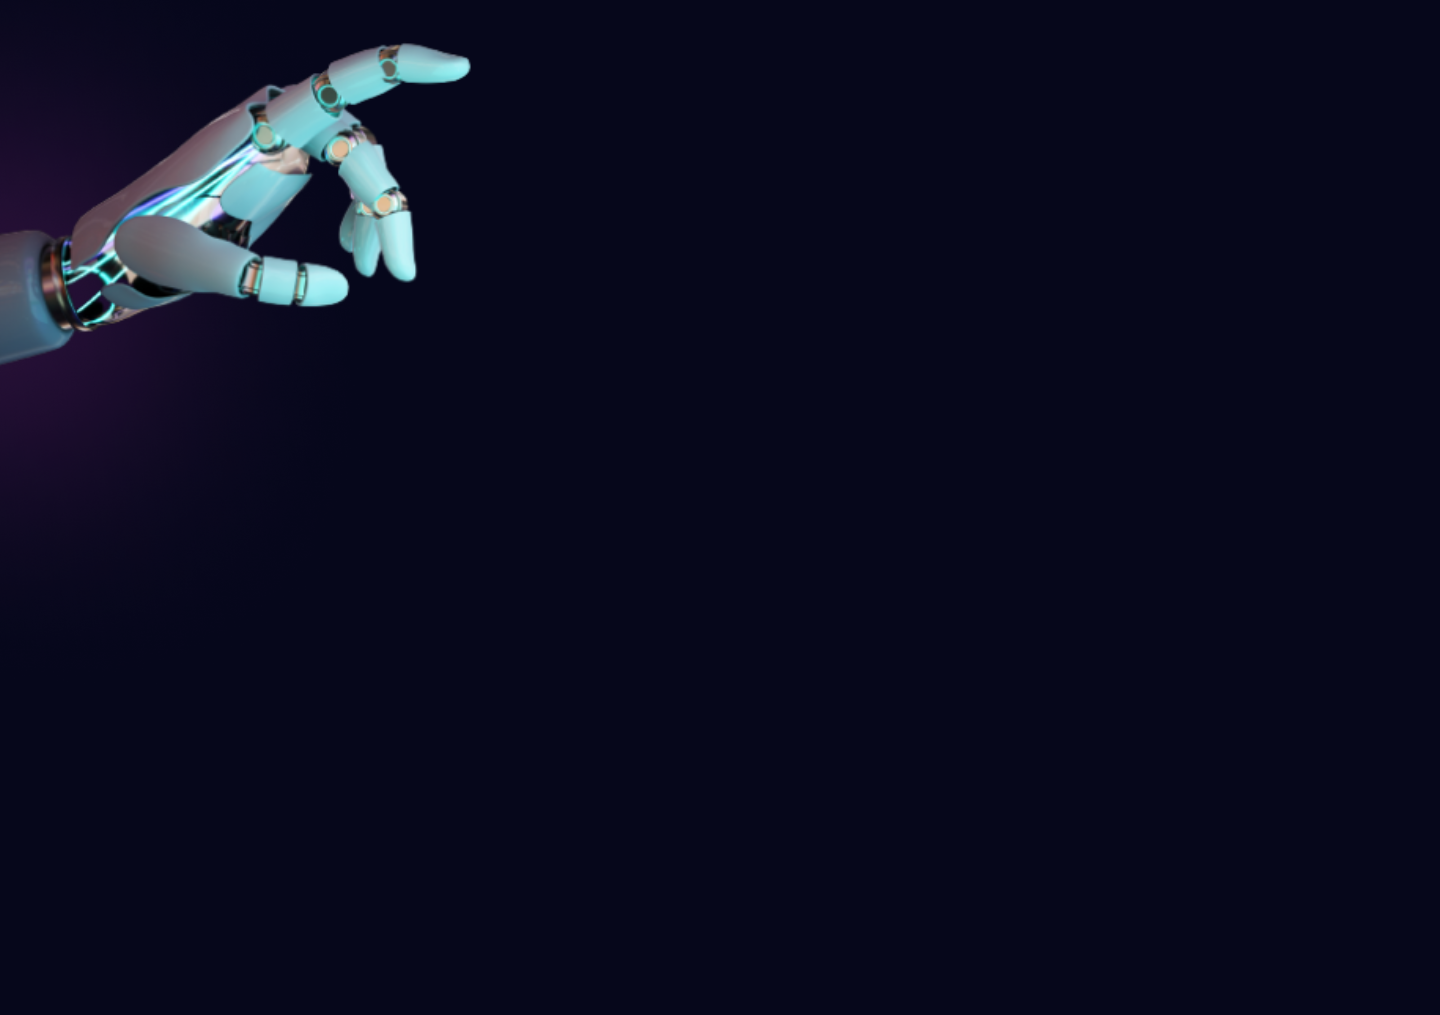
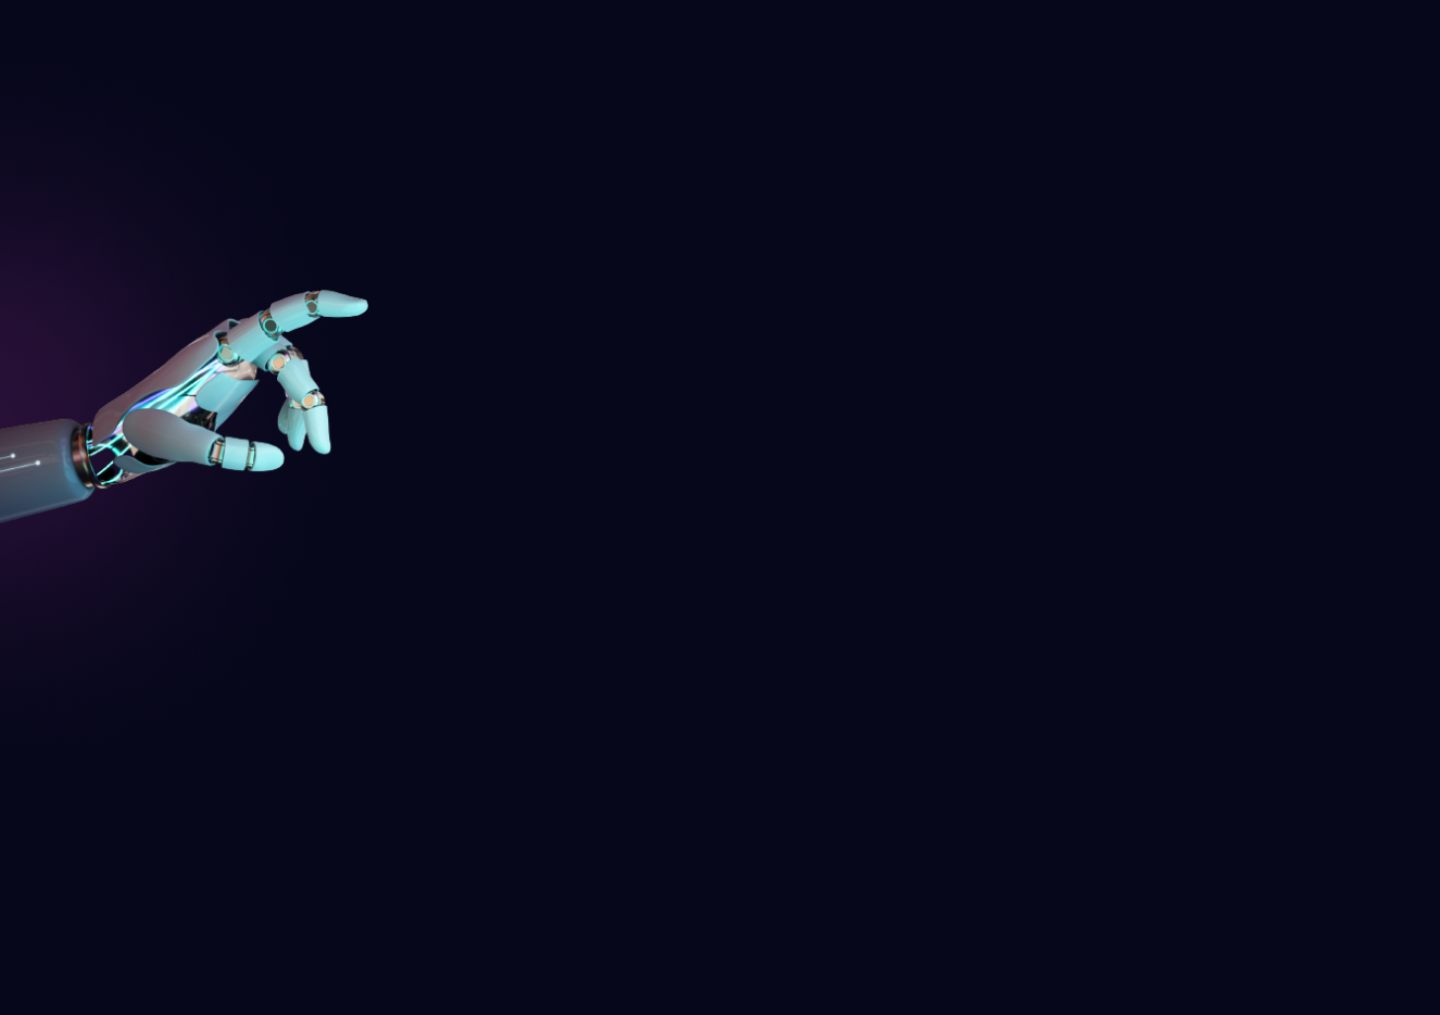
fix responsive issue

Changed region(s): [[0.0, 0.0305, 0.3438, 0.5192]]

diff --git a/src/components/Home.js b/src/components/Home.js
@@ -8,8 +8,11 @@ import bot from '../assets/bot.png';
 import telegram from '../assets/telegram.png';
 import twitter from '../assets/twitter.png';
 import rocket from '../assets/rocket.png';
-
-
+import b_1 from '../assets/b-1.png';
+import b_2 from '../assets/b-2.png';
+import b_3 from '../assets/b-3.png';
+import b_4 from '../assets/b-4.png';
+import b_5 from '../assets/b-5.png';
 
 
 export default function Home() {
@@ -64,7 +67,7 @@ export default function Home() {
 
             <div className="bg-img">
 
-                <div className="py-20 lg:px-20 px-5 container mx-auto">
+                <div className="lg:py-20 py-5 lg:px-20 px-5 container mx-auto">
                     <div className="lg:flex items-center justify-between">
 
                         <div className="img lg:w-5/12 w-full">
@@ -97,10 +100,10 @@ export default function Home() {
                     </div>
                 </div>
 
-                <div className="py-12 lg:px-20 px-5 container mx-auto text-white-100 ">
+                <div className="lg:py-12 py-5 lg:px-20 px-5 container mx-auto text-white-100 ">
                     <div className="lg:flex items-center justify-between">
 
-                        <div className="lg:w-5/12 w-full lg:mt-0 mt-8">
+                        <div className="lg:w-5/12 w-full">
                             <h2 className='md:text-4xl text-2xl font-coolvetica font-bold text-black-100'>
                                 Project on Twitter
                             </h2>
@@ -123,7 +126,7 @@ export default function Home() {
                             </div>
                         </div>
 
-                        <div className="img lg:w-5/12 w-full">
+                        <div className="img lg:w-5/12 w-full lg:mt-0 mt-8">
                             <img src={p_2} alt="" />
                         </div>
                     </div>
@@ -136,7 +139,7 @@ export default function Home() {
 
             <div className="bg-hand">
 
-                <div className="py-20 lg:px-20 px-5 container mx-auto">
+                <div className="lg:py-20 py-5 lg:px-20 px-5 container mx-auto">
                     <div className=" text-center ">
                         <p className="py-12 font-inter">
                             Why choose Us?
@@ -208,7 +211,7 @@ export default function Home() {
 
             <div className="">
 
-                <div className="py-20 lg:px-20 px-5 container mx-auto">
+                <div className="lg:py-20 py-5 lg:px-20 px-5 container mx-auto">
                     <div className=" text-center">
                         <h2 className='md:text-4xl text-2xl font-coolvetica font-bold text-black-100'>
                             TOKENOMICS
@@ -260,8 +263,37 @@ export default function Home() {
 
             </div>
 
+            {/* token listing */}
+
+            <div className="lg:py-20 py-5 lg:px-20 px-5 container mx-auto">
+                <div className=" text-center">
+                    <h2 className='md:text-4xl text-2xl font-coolvetica font-bold text-black-100'>
+                        TOKEN LISTINGS
+                    </h2>
+
+                    <div className="flex justify-center items-center gap-2">
+                        <div classname="bg-pink-50 p-2 rounded-lg">
+                            <img src={b_1} alt="" />
+                        </div>
+                        <div classname="bg-pink-50 p-2 rounded-lg">
+                            <img src={b_2} alt="" />
+                        </div>
+                        <div classname="bg-pink-50 p-2 rounded-lg">
+                            <img src={b_3} alt="" />
+                        </div>
+                        <div classname="bg-pink-50 p-2 rounded-lg">
+                            <img src={b_4} alt="" />
+                        </div>
+                        <div classname="bg-pink-50 p-2 rounded-lg">
+                            <img src={b_5} alt="" />
+                        </div>
+                    </div>
+                </div>
+
+            </div>
+
             <Footer />
 
-        </div >
+        </div>
     )
 }

diff --git a/tailwind.config.js b/tailwind.config.js
@@ -16,6 +16,7 @@ module.exports = {
         "100": "#fff",
       },
       pink: {
+        "50": "rgba(233, 70, 218, 0.3)",
         "100": "#EF09DA",
       },
     },
